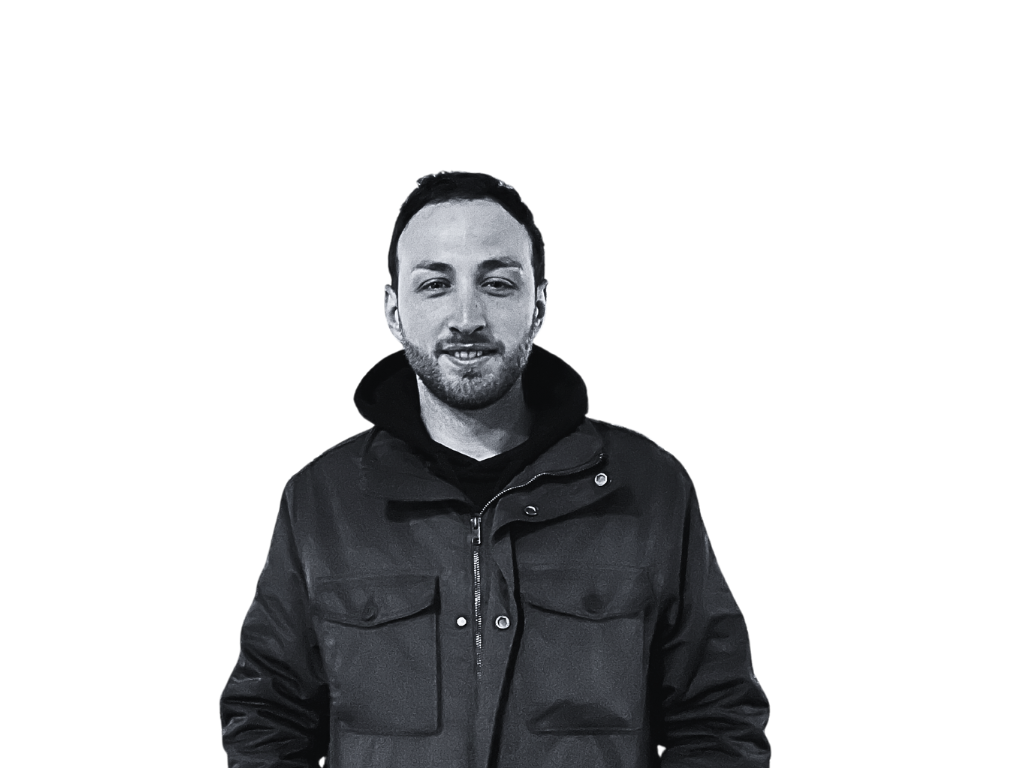
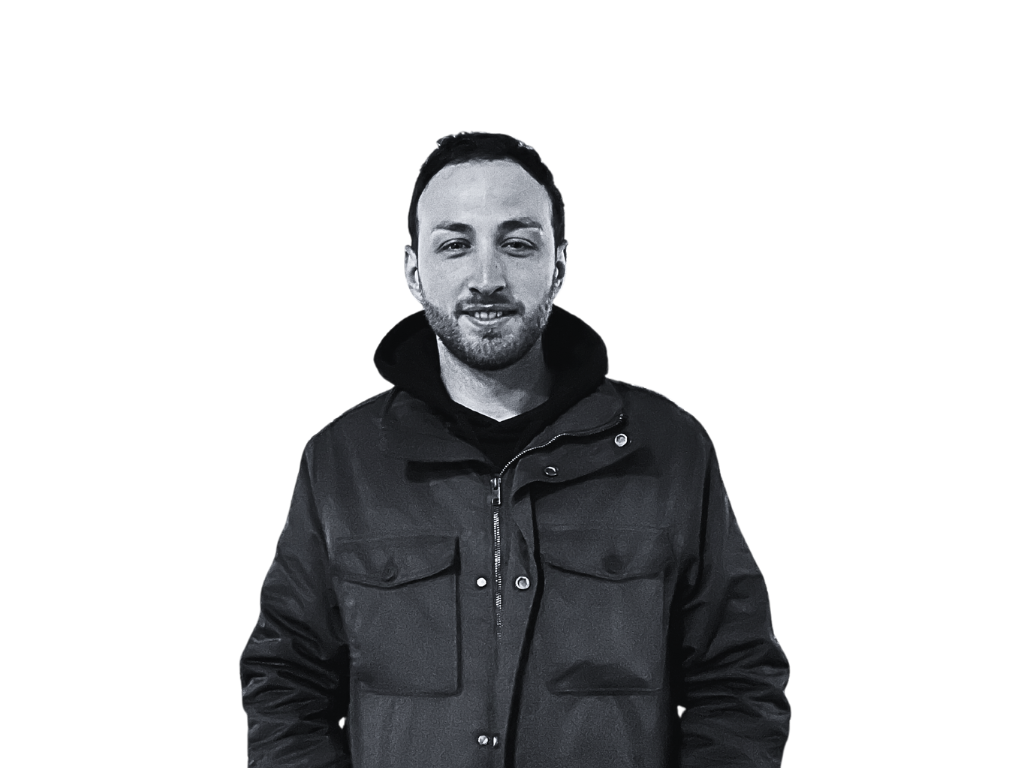
fix layout

Changed region(s): [[0.1875, 0.1562, 0.7812, 1.0]]

diff --git a/index.css b/index.css
@@ -1,16 +1,26 @@
 *{
+    margin: 0;
+    padding: 0;
     box-sizing: border-box;
 }
 
 body{
     text-align: center;
-    background: url('./images/background.avif');
-    background-size: cover;
-    background-repeat: no-repeat ;
+    height: 100%;
+    min-width: 390px;
+    max-height: 100%;
+    background: url('./images/background.avif') no-repeat center center fixed;
+    background-size:cover;
     color: whitesmoke;
     font-family: 'Caveat', cursive;
-    margin: 0;
     overflow: hidden;
+    display: grid;
+    grid-template-columns: 1fr;
+    grid-template-rows: 80px 1fr 80px;
+    grid-template-areas: 
+    'header'
+    'container'
+    'footer';
 }
 
 h1{
@@ -21,37 +31,36 @@ h2{
     font-size: 40px;
 }
 
-header{
-
-    font-size: 40px;
-}
 header,
+footer{
+    background-color: rgba(0, 0, 0, 0.6);
+    line-height: 80px;
+}
+
+header{
+    grid-area: header;
+}
+
 
 footer{
-    width:100%;
-    height: 80px;
-    line-height: 80px;
-    background-color: rgba(0, 0, 0, 0.6);
+    grid-area: footer;
 }
 
 .main-container{
+    grid-area: container;
     display:flex;
     flex-direction: column;
 }
 
-.picture-container{
-    background: url(./images/me2.png);
-    background-size: 600px; 
-    background-position: center;
-    background-repeat: no-repeat;
-    
+.picture-container img{
+    width:100%;
+    max-height: 100%;
 }
 
 .picture-container,
 .links-container{
     width: 100%;
-    height: 400px;
-    /* border: red solid 1px; */
+    height: 100%;
 }
 
 .links-container{
@@ -70,6 +79,16 @@ footer{
     grid-template-columns:repeat(3, 1fr);
     grid-template-rows: 2fr 1fr 2fr;
     gap: 10px;
+}
+.hidden{
+    opacity: 0;
+    pointer-events: none;
+    transition: opacity 0.3s ease-in-out;
+}
+
+.images-container a:hover{
+    opacity: 1;
+    pointer-events: auto;
 }
 
 
@@ -110,26 +129,32 @@ a img{
   
     .main-container{
         flex-direction: row;
-        height: 100%;
+        align-items: center;
     }
 
     .picture-container,
     .links-container{
-    width: 50%;
-    height: 400px;
+    height: 500px;
     /* border: red solid 1px; */
     }
     .picture-container{
-        background: url(./images/me2.png);
-        background-size: 600px 600px; 
-        background-repeat: no-repeat;
+        border-bottom:solid 6px hsla(0, 0%, 96%, 0.6);
+        border-radius: 0 0 6px 6px;
+        overflow: hidden;
     }
-    .picture-container{
-        
-        background-size:600px; 
-        background-position: -80px -50px;
-        
+
+    .picture-container img{
+        width: 150%;
+        height:100%;
+        object-fit: cover;
+        margin-left: -20%;
     }
+
+    .links-container{
+        border-top:solid 6px hsla(0, 0%, 96%, 0.6);
+        border-radius:6px 6px 0 0;
+    }
+   
     .images-container{
         min-width: 400px;
         grid-template-columns:repeat(4, 1fr);
@@ -156,4 +181,14 @@ a img{
     }
     
 
+}
+
+@media (min-width:900px){
+    .picture-container,
+    .links-container{
+    height: 530px;
+    }
+    footer{
+        background-color: rgba(0, 0, 0, 0.8);
+    }
 }

diff --git a/index.js b/index.js
@@ -1,17 +1,11 @@
 
 
-
-const imageContainer = document.querySelector('.image-container');
-
-imageContainer.addEventListener('mousemove', (e) => {
-  const containerRect = imageContainer.getBoundingClientRect();
-  const mouseX = e.clientX - containerRect.left;
-
-  const images = imageContainer.querySelectorAll('img');
-  images.forEach((img) => {
-    const imageRect = img.getBoundingClientRect();
-    const imageWidth = imageRect.width;
-    const translateX = ((mouseX / containerRect.width) - 0.5) * imageWidth;
-    img.style.transform = `translateX(${translateX}px)`;
-  });
+const imagesContainer = document.querySelector('.images-container');
+imagesContainer.addEventListener('mouseenter', () => {
+  imagesContainer.classList.remove('hidden');
 });
+imagesContainer.addEventListener('mouseleave', () => {
+  imagesContainer.classList.add('hidden');
+});
+
+document.addEventListener('click', function(){console.log('clicked')})

diff --git a/index.html b/index.html
@@ -13,7 +13,7 @@
 <body>
     <header></header>
     <div class='main-container'>
-        <div class="images-container">
+        <div class="images-container hidden">
             <a href="#" class='rome-link'><img src='./images/rome.avif' class='rome-img'></a>
             <a href="#" class='music-link'><img src='./images/guitar.avif' class='music-img'></a>
             <a href="#" class='finance-link'><img src='./images/finance.avif' class='finance-img'></a>
@@ -28,8 +28,10 @@
             <h3>I'm Luca and Today I'll show you a bit of my journey</h3>
         </div>
         <div class="picture-container">
+            <img src="./images/me2.png">
         </div>
     </div>
     <footer>Created By Luca@2023</footer>
+    <script src="index.js"></script>
 </body>
 </html>
